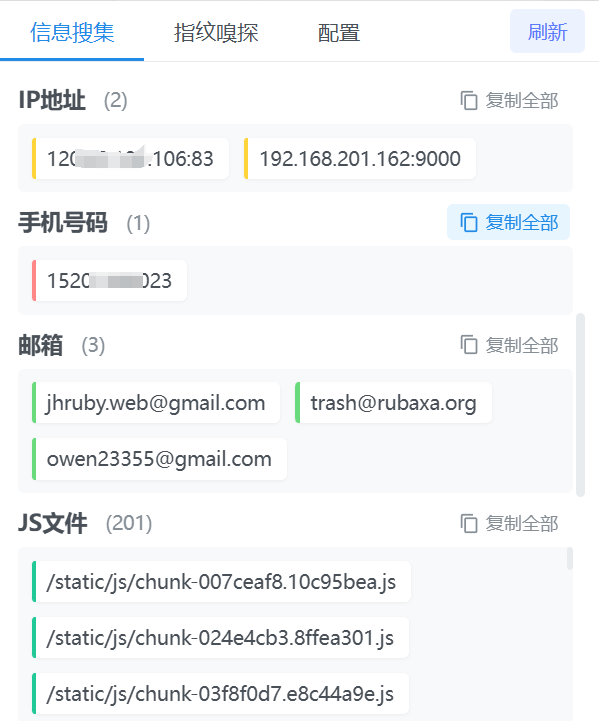
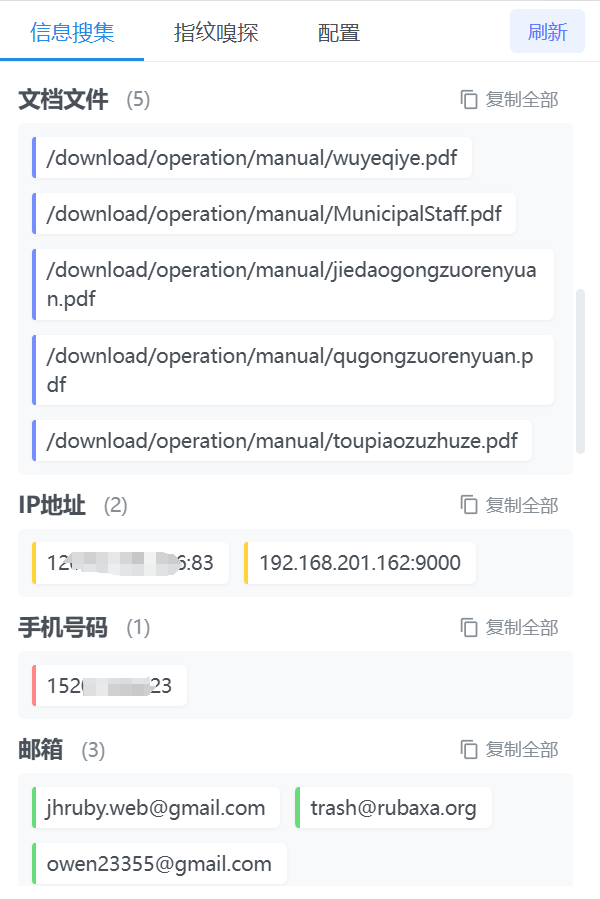
v0.2.2.3

diff --git a/content/filters/scanner.filter.js b/content/filters/scanner.filter.js
@@ -200,6 +200,48 @@ const SCANNER_FILTER = {
   },
 
   url: (match, resultsSet) => {
+    try {
+      // 解析URL
+      const url = new URL(match);
+      const currentHost = window.location.host;
+      
+      // 检查是否是当前域名或IP
+      if (url.host === currentHost) {
+        // 获取路径部分
+        const path = url.pathname;
+      
+        if (path.endsWith('.css')) {
+          return true;
+        }
+        // 检查是否是图片文件
+        if (SCANNER_CONFIG.API.IMAGE_PATTERN.test(path)) {
+          resultsSet?.imageFiles?.add(path);
+          return true;
+        }
+        
+        // 检查是否是JS文件
+        if (SCANNER_CONFIG.API.JS_PATTERN.test(path)) {
+          resultsSet?.jsFiles?.add(path);
+          return true;
+        }
+        
+        // 检查是否是文档文件
+        if (SCANNER_CONFIG.API.DOC_PATTERN.test(path)) {
+          resultsSet?.docFiles?.add(path);
+          return true;
+        }
+        
+        // 如果不是特定类型文件，则当作API处理
+        if (!path.match(/\.[a-zA-Z0-9]+$/)) {
+          resultsSet?.apis?.add(path);
+          return true;
+        }
+      }
+    } catch (e) {
+      console.error('Error processing URL:', e);
+    }
+    
+    // 如果不是当前域名或解析失败，将完整URL添加到URL结果集
     resultsSet?.urls?.add(match);
     return true;
   },

diff --git a/content/config/scanner.config.js b/content/config/scanner.config.js
@@ -20,8 +20,8 @@ const SCANNER_CONFIG = {
   // API 相关配置
   API: {
     PATTERN: /['"`](?:\/|\.\.\/|\.\/)[^\/\>\< \)\(\}\,\'\"\\](?:[^\^\>\< \)\(\{\}\,\'\"\\])*?['"`]|['"`][a-zA_Z0-9]+(?<!text|application)\/(?:[^\^\>\< \)\(\{\}\,\'\"\\])*?["'`]/g,
-    // 图片文件模式
-    IMAGE_PATTERN: /\.(jpg|jpeg|png|gif|bmp|webp|svg|ico)(?:\?[^'"]*)?$/i,
+    // 音频图片模式
+    IMAGE_PATTERN: /\.(jpg|jpeg|png|gif|bmp|webp|svg|ico|mp3)(?:\?[^'"]*)?$/i,
     // JS文件模式
     JS_PATTERN: /\.(js|jsx|ts|tsx)(?:\?[^'"]*)?$/i,
     // 文档文件模式

diff --git a/content/content.js b/content/content.js
@@ -16,7 +16,7 @@ const waitForDependencies = () => {
 const latestResults = {
   domains: new Set(),     // 域名结果集
   apis: new Set(),        // API 结果集
-  imageFiles: new Set(),  // 图片文件结果集
+  imageFiles: new Set(),  // 音频图片结果集
   jsFiles: new Set(),     // JS文件结果集
   docFiles: new Set(),    // 文档文件结果集
   vueFiles: new Set(),    // Vue 文件结果集

diff --git a/README.md b/README.md
@@ -125,6 +125,7 @@
 - 增加第三方库过滤，减少不必要的搜索
 - 完善API分离逻辑，增加更多的三方库
 - 拆分静态资源，提取js，文档和图片
+- 完善URL的过滤
 ---
 
 **雪瞳——洞悉无形，守护无界。**
